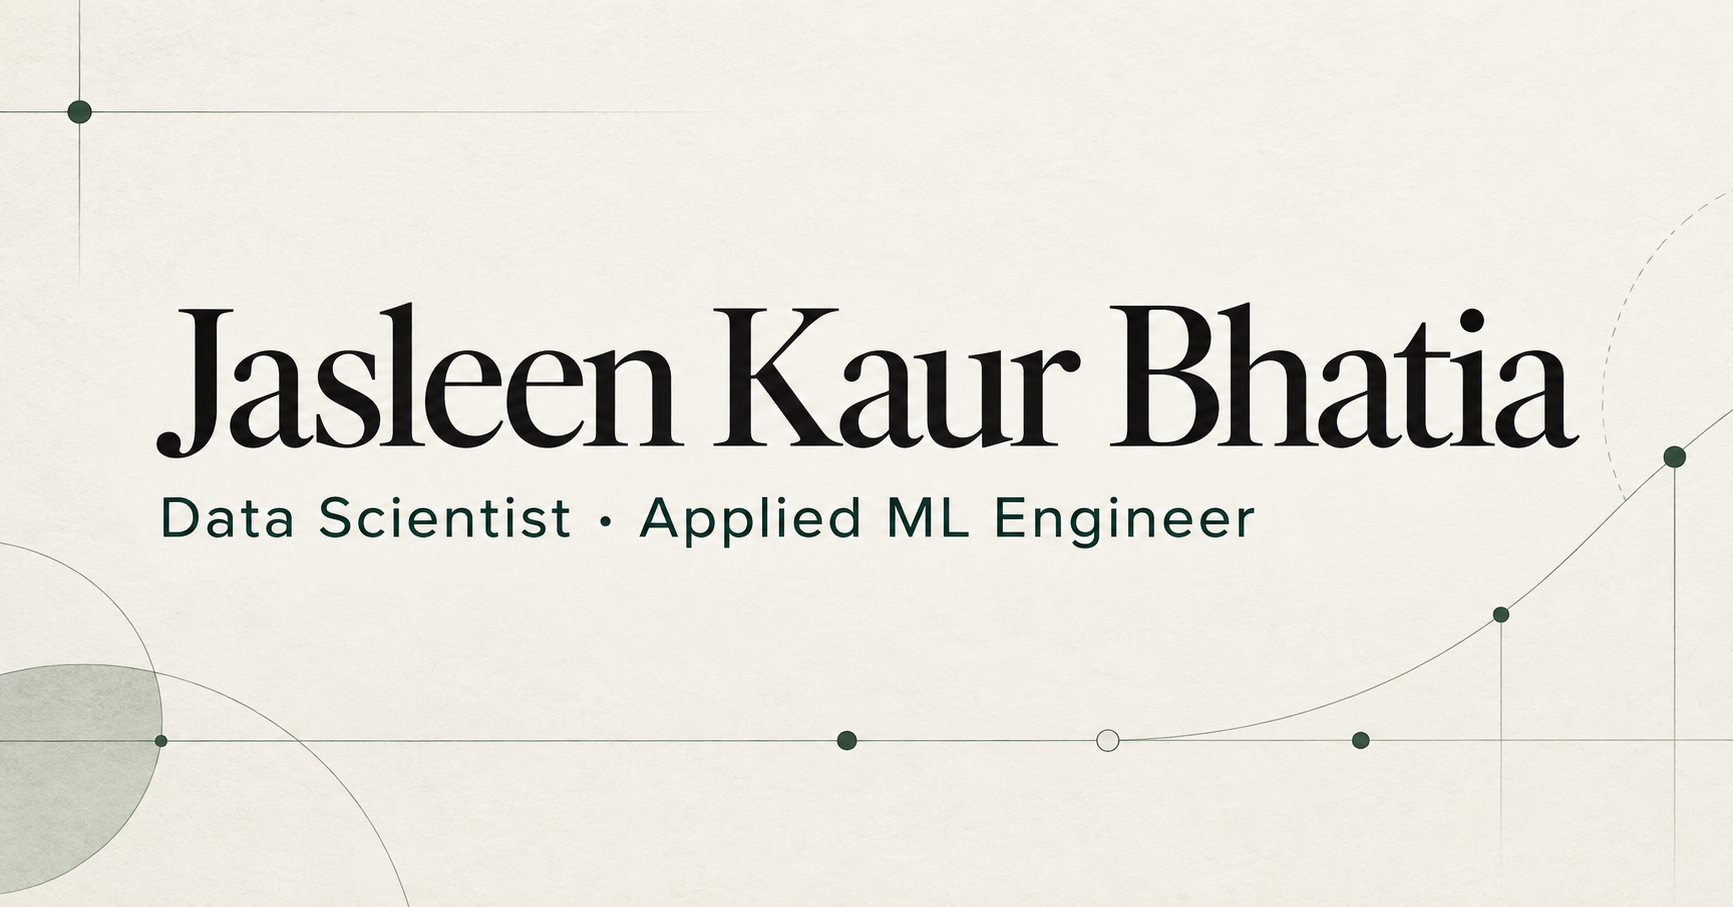
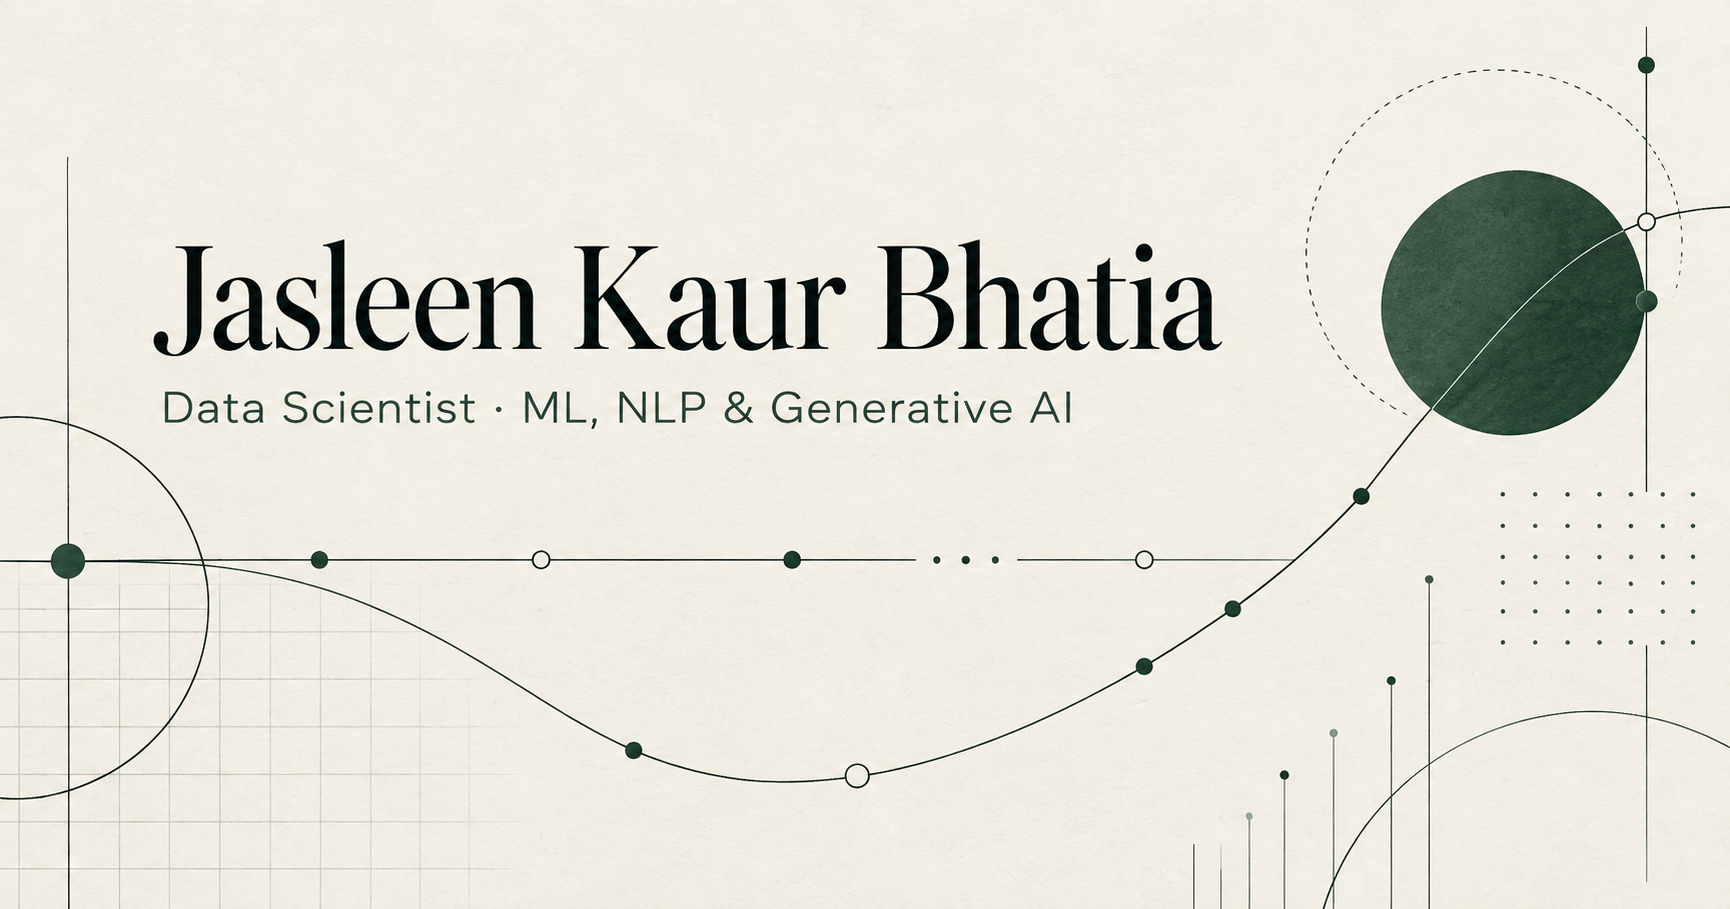
Refine career narrative and positioning

diff --git a/app/journey-motion.css b/app/journey-motion.css
@@ -1,0 +1,6 @@
+.hero{position:relative;overflow:hidden}.hero:before{content:"";position:absolute;inset:0 -20vw;z-index:-1;background:linear-gradient(90deg,transparent 49.9%,#d8ddd755 50%,transparent 50.1%),linear-gradient(0deg,transparent 49.9%,#d8ddd744 50%,transparent 50.1%);background-size:80px 80px;mask-image:linear-gradient(to bottom,black,transparent 88%)}.hero h1{animation:hero-in .9s cubic-bezier(.22,1,.36,1) both}.hero-grid{animation:hero-in .9s .12s cubic-bezier(.22,1,.36,1) both}.data-ribbon div{position:relative;overflow:hidden}.data-ribbon div:after{content:"";position:absolute;left:0;bottom:0;width:100%;height:2px;background:var(--accent);transform:translateX(-101%);animation:scan-line 5s infinite}.data-ribbon div:nth-child(2):after{animation-delay:1.25s}.data-ribbon div:nth-child(3):after{animation-delay:2.5s}.data-ribbon div:nth-child(4):after{animation-delay:3.75s}@keyframes hero-in{from{opacity:0;transform:translateY(35px)}to{opacity:1;transform:none}}@keyframes scan-line{0%,14%{transform:translateX(-101%)}25%,100%{transform:translateX(101%)}}
+.journey{max-width:1320px;background:linear-gradient(135deg,#f7f6f1 0%,#f7f6f1 55%,#eef1ec 100%)}.journey-story{--progress:0%;position:relative;display:grid;grid-template-columns:100px minmax(0,1fr) 150px;gap:45px;margin-top:80px}.journey-rail{position:relative;min-height:2520px}.rail-base,.rail-progress{position:absolute;left:50%;top:0;width:1px;height:100%;background:#c8d0ca}.rail-progress{height:var(--progress);background:var(--accent);transition:height .8s cubic-bezier(.22,1,.36,1)}.journey-rail button{position:absolute;left:50%;width:35px;height:35px;transform:translate(-50%,-50%);border:1px solid #a9b5ae;border-radius:50%;background:var(--paper);color:#93a098;font:600 8px var(--font-geist-mono);transition:all .45s;cursor:pointer}.journey-rail button.passed{background:var(--accent);color:#fff;border-color:var(--accent);box-shadow:0 0 0 7px #2f6f5e14}.journey-chapters article{position:relative;min-height:420px;padding:45px 0;display:grid;grid-template-columns:140px 1fr;gap:45px;opacity:.35;transform:translateY(25px);transition:opacity .7s,transform .7s}.journey-chapters article.is-active{opacity:1;transform:none}.chapter-meta{display:flex;flex-direction:column;gap:9px;color:#77827c;font:600 9px var(--font-geist-mono);text-transform:uppercase;letter-spacing:.08em}.chapter-copy{max-width:620px}.chapter-label{color:var(--accent)!important;font:650 10px var(--font-geist-mono)!important;letter-spacing:.1em}.chapter-copy h3{margin:16px 0 45px;font-size:clamp(38px,5vw,66px);font-weight:510;letter-spacing:-.055em;line-height:.94}.chapter-copy h4{margin:0 0 8px;font-size:19px}.chapter-copy>p:last-child{max-width:560px;color:var(--muted);font-size:14px;line-height:1.7}.chapter-role{margin:0 0 20px;color:#7b8780;font:500 10px var(--font-geist-mono)}.transition-card,.parallel-card{grid-column:2;max-width:620px;margin-top:20px;padding:22px;border:1px solid #cdd4ce;background:#eff2ed;display:grid;grid-template-columns:1fr auto;gap:12px}.transition-card>span,.parallel-card span{color:var(--accent);font:650 9px var(--font-geist-mono);letter-spacing:.08em}.transition-card strong,.parallel-card strong{grid-column:1/3;font-size:15px}.transition-card>b{font:650 9px var(--font-geist-mono)}.travel-line{grid-column:1/3;display:flex;align-items:center;gap:14px;margin-top:12px}.travel-line b{font:600 8px var(--font-geist-mono)}.travel-line i{position:relative;flex:1;height:1px;background:#9baaa2}.travel-line i:after{content:"→";position:absolute;right:-2px;top:-8px;color:var(--accent)}.move{background:#18221e;color:#f4f3ed}.move .travel-line i{background:#81958b}.parallel-card{grid-template-columns:auto 25px auto;justify-content:start;align-items:center;background:#f7f6f1}.parallel-card i{font-style:normal;color:#99a49e}.parallel-card strong{grid-column:1/4}.journey-now{position:sticky;top:120px;height:130px;align-self:start;border-top:1px solid var(--ink);padding-top:15px;display:flex;flex-direction:column}.journey-now span{font:600 8px var(--font-geist-mono);letter-spacing:.1em;color:#89958e}.journey-now strong{margin-top:18px;color:var(--accent);font:600 24px var(--font-geist-mono)}.journey-now small{margin-top:5px;color:var(--muted);font:500 9px var(--font-geist-mono)}
+.case-card{position:relative;overflow:hidden}.case-card:before{content:"";position:absolute;inset:0;background:linear-gradient(115deg,transparent 35%,#ffffff0d 50%,transparent 65%);transform:translateX(-120%);transition:transform .8s}.case-card:hover:before{transform:translateX(120%)}.research-rule span{animation:research-pulse 4s ease-in-out infinite;transform-origin:left}@keyframes research-pulse{0%,100%{transform:scaleX(.35)}50%{transform:scaleX(1)}}
+@media(max-width:900px){.journey-story{grid-template-columns:55px 1fr}.journey-now{display:none}.journey-rail{min-height:2520px}.journey-chapters article{grid-template-columns:1fr;gap:15px}.transition-card,.parallel-card{grid-column:1}.chapter-meta{flex-direction:row;justify-content:space-between}.chapter-copy h3{margin-bottom:30px}}
+@media(max-width:560px){.journey-story{grid-template-columns:35px 1fr;gap:18px;margin-top:55px}.journey-rail{min-height:2800px}.journey-rail button{width:25px;height:25px}.journey-chapters article{min-height:460px;padding:25px 0}.chapter-copy h3{font-size:39px}.transition-card,.parallel-card{padding:16px}.hero:before{background-size:48px 48px}}
+@media(prefers-reduced-motion:reduce){.hero h1,.hero-grid,.data-ribbon div:after,.research-rule span{animation:none}.journey-chapters article{opacity:1;transform:none}.rail-progress{transition:none}}

diff --git a/app/page.tsx b/app/page.tsx
@@ -1,4 +1,4 @@
-import { experience } from "@/data/experience";
+import { JourneyStory } from "@/components/sections/JourneyStory";
 import { personalProjects } from "@/data/personalProjects";
 import { professionalProjects } from "@/data/professionalProjects";
 import { profile } from "@/data/profile";
@@ -16,9 +16,9 @@ function SectionHeading({index,kicker,title,copy}:{index:string;kicker:string;ti
 function Header(){return <header className="site-header"><a className="monogram" href="#home" aria-label="Jasleen Kaur Bhatia, home">{profile.shortName}<span>·</span></a><nav aria-label="Primary navigation">{nav.map(([label,href])=><a key={href} href={href}>{label}</a>)}</nav><div className="header-actions"><a className="icon-link" href="#contact" aria-label="Contact">@</a><a className="resume-small" href={profile.resumeUrl} download>Resume ↓</a></div></header>}
 
 export default function Home(){return <main id="home"><Header/>
- <section className="hero section-shell" aria-labelledby="hero-title"><div className="eyebrow"><span className="signal"/> Data Scientist · Applied AI Systems</div><h1 id="hero-title">Jasleen Kaur<br/><span>Bhatia.</span></h1><div className="hero-grid"><div><p className="headline">{profile.headline}</p><p className="positioning">{profile.positioning}</p></div><div className="hero-aside"><p>{profile.supporting}</p><div className="hero-actions"><a className="button primary" href="#work">Explore my work ↘</a><a className="button text-button" href="#journey">Career journey ↓</a></div><div className="social-row"><a href="#contact">LinkedIn ↗</a><a href="#contact">GitHub ↗</a><a href="#contact">Email ↗</a></div></div></div><div className="data-ribbon" aria-hidden="true">{[["01","Experiment"],["02","Evaluate"],["03","Validate"],["04","Operationalize"]].map(([n,label])=><div key={n}><span>{n}</span><strong>{label}</strong></div>)}</div></section>
+ <section className="hero section-shell" aria-labelledby="hero-title"><div className="eyebrow"><span className="signal"/> Data Scientist · ML, NLP & Generative AI</div><h1 id="hero-title">Jasleen Kaur<br/><span>Bhatia.</span></h1><div className="hero-grid"><div><p className="headline">{profile.headline}</p><p className="positioning">{profile.positioning}</p></div><div className="hero-aside"><p>{profile.supporting}</p><div className="hero-actions"><a className="button primary" href="#work">Explore my work ↘</a><a className="button text-button" href="#journey">Career journey ↓</a></div><div className="social-row"><a href="#contact">LinkedIn ↗</a><a href="#contact">GitHub ↗</a><a href="#contact">Email ↗</a></div></div></div><div className="data-ribbon" aria-hidden="true">{[["01","Experiment"],["02","Evaluate"],["03","Validate"],["04","Operationalize"]].map(([n,label])=><div key={n}><span>{n}</span><strong>{label}</strong></div>)}</div></section>
 
- <section id="journey" className="journey section-shell"><SectionHeading index="01" kicker="Career Journey" title="Evolution through data." copy="From foundational data systems to the evaluation and operationalization of enterprise AI."/><div className="stage-track" aria-hidden="true">{["DATA","ANALYTICS","ML","NLP","GENAI"].map((stage,i)=><span key={stage} className={i===4?"active":""}>{stage}</span>)}</div><div className="timeline">{experience.map(item=><article className={`timeline-card ${item.education?"education":""}`} key={`${item.organization}-${item.period}`}><div className="node"><span/></div><p className="period">{item.period}</p><p className="stage">{item.stage}</p><h3>{item.organization}</h3><p className="role">{item.role}</p><p className="theme">{item.theme}</p><p className="highlight">{item.highlight}</p></article>)}</div></section>
+ <section id="journey" className="journey section-shell"><SectionHeading index="01" kicker="Career Journey" title="A career in chapters." copy="Six years building data foundations in India. A move to Chicago to formalize the craft. Then applied ML, predictive systems, NLP, and enterprise Generative AI."/><JourneyStory/></section>
 
  <section id="work" className="work section-shell"><SectionHeading index="02" kicker="Selected Professional Work" title="Systems, evaluated." copy="Selected public-safe case studies spanning enterprise GenAI, predictive modeling, NLP, and production readiness."/><div className="case-grid">{professionalProjects.map((project,i)=><a className={`case-card case-${i+1}`} href={`/work/${project.slug}`} key={project.slug}><div className="case-top"><span>0{i+1}</span><span>{project.category}</span></div><div><p className="org">{project.organization}{project.client&&<> · {project.client}</>}</p><h3>{project.title}</h3><p className="case-summary">{project.summary}</p></div><div className="metric-row">{project.metrics.slice(0,3).map(metric=><div key={metric.label}><strong>{metric.value}</strong><span>{metric.label}</span></div>)}</div><span className="case-link">View case study ↗</span></a>)}</div></section>
 

diff --git a/data/experience.ts b/data/experience.ts
@@ -1,11 +1,11 @@
-export type Experience = { period:string; organization:string; role:string; theme:string; stage:"DATA"|"ANALYTICS"|"ML"|"NLP"|"GENAI"; highlight:string; education?:boolean };
-export const experience: Experience[] = [
-  { period:"2014–2018", organization:"Tata Consultancy Services", role:"Data Analyst", theme:"Data Foundations", stage:"DATA", highlight:"Built and maintained 100+ SSIS/PowerShell ETL packages and automated migration and reconciliation workflows." },
-  { period:"2019–2021", organization:"Fiserv", role:"Data Architect Specialist", theme:"Data Engineering & Intelligent Automation", stage:"ANALYTICS", highlight:"Developed automated resume screening with predictive scoring and NLP-based processing across multiple document formats." },
-  { period:"2021–2023", organization:"Illinois Institute of Technology", role:"Master’s in Data Science", theme:"Formalizing Data Science", stage:"ML", highlight:"Deepened the statistical, computational, and applied foundations behind a career in data science.", education:true },
-  { period:"2022", organization:"Boston Consulting Group", role:"Data Science Intern", theme:"Applied Machine Learning", stage:"ML", highlight:"Applied clustering and regression to retail shelf-space optimization." },
-  // TODO: Verify the one-month overlap (Aug 2023–Aug 2024 / Jul 2024–Present) before production publication.
-  { period:"Aug 2023–Aug 2024", organization:"Infinite Computer Solutions", role:"Business Process Analyst (Data Scientist)", theme:"Predictive ML & NLP", stage:"NLP", highlight:"Developed fraud-detection and risk-scoring systems with transactional data, XGBoost, BERT, and GPT-based approaches." },
-  // TODO: Verify the one-month overlap (Aug 2023–Aug 2024 / Jul 2024–Present) before production publication.
-  { period:"Jul 2024–Present", organization:"Fractal Analytics", role:"Data Scientist", theme:"Enterprise ML & Generative AI", stage:"GENAI", highlight:"Builds and evaluates enterprise LLM systems, lead-detection solutions, model-validation frameworks, and production-readiness workflows." },
+export type Experience={period:string;organization:string;role:string;theme:string;stage:"DATA"|"ANALYTICS"|"ML"|"NLP"|"GENAI";highlight:string;location:string;chapter:string;education?:boolean};
+export const experience:Experience[]=[
+ {period:"2014–2018",organization:"Tata Consultancy Services",role:"Data Analyst",theme:"Data Foundations",stage:"DATA",location:"India",chapter:"Built the foundation",highlight:"Built and maintained 100+ SSIS/PowerShell ETL packages and automated migration and reconciliation workflows."},
+ {period:"2019–2021",organization:"Fiserv",role:"Data Architect Specialist",theme:"Data Engineering & Intelligent Automation",stage:"ANALYTICS",location:"India",chapter:"Moved from pipelines to intelligence",highlight:"Developed automated resume screening with predictive scoring and NLP-based processing across multiple document formats."},
+ {period:"2021–2023",organization:"Illinois Institute of Technology",role:"Master’s in Data Science",theme:"Formalizing Data Science",stage:"ML",location:"Chicago, USA",chapter:"Crossed continents to go deeper",highlight:"Moved from India to Chicago to formalize years of data experience through advanced study in data science.",education:true},
+ {period:"2022",organization:"Boston Consulting Group",role:"Data Science Intern",theme:"Applied Machine Learning",stage:"ML",location:"Chicago, USA",chapter:"Applied the learning in parallel",highlight:"While completing the master’s, applied clustering and regression to retail shelf-space optimization."},
+ // TODO: Verify the one-month overlap (Aug 2023–Aug 2024 / Jul 2024–Present) before production publication.
+ {period:"Aug 2023–Aug 2024",organization:"Infinite Computer Solutions",role:"Business Process Analyst (Data Scientist)",theme:"Predictive ML & NLP",stage:"NLP",location:"USA",chapter:"Stepped into full-time data science",highlight:"Developed fraud-detection and risk-scoring systems with transactional data, XGBoost, BERT, and GPT-based approaches."},
+ // TODO: Verify the one-month overlap (Aug 2023–Aug 2024 / Jul 2024–Present) before production publication.
+ {period:"Jul 2024–Present",organization:"Fractal Analytics",role:"Data Scientist",theme:"Enterprise ML & Generative AI",stage:"GENAI",location:"USA",chapter:"Now: enterprise AI at scale",highlight:"Builds and evaluates enterprise LLM systems, lead-detection solutions, model-validation frameworks, and production-readiness workflows."},
 ];

diff --git a/components/sections/JourneyStory.tsx b/components/sections/JourneyStory.tsx
@@ -1,0 +1,18 @@
+"use client";
+import {useEffect,useRef,useState} from "react";
+import {experience} from "@/data/experience";
+
+export function JourneyStory(){
+ const [active,setActive]=useState(0);const root=useRef<HTMLDivElement>(null);
+ useEffect(()=>{const nodes=root.current?.querySelectorAll("[data-step]");if(!nodes)return;const observer=new IntersectionObserver(entries=>entries.forEach(e=>{if(e.isIntersecting)setActive(Number((e.target as HTMLElement).dataset.step))}),{rootMargin:"-35% 0px -45%",threshold:.1});nodes.forEach(n=>observer.observe(n));return()=>observer.disconnect()},[]);
+ return <div className="journey-story" ref={root} style={{"--progress":`${(active/(experience.length-1))*100}%`} as React.CSSProperties}>
+  <div className="journey-rail" aria-hidden="true"><div className="rail-base"/><div className="rail-progress"/>{experience.map((item,i)=><button key={item.period} className={i<=active?"passed":""} style={{top:`${(i/(experience.length-1))*100}%`}} onClick={()=>document.querySelector(`[data-step='${i}']`)?.scrollIntoView({behavior:"smooth",block:"center"})} tabIndex={-1}><span>{String(i+1).padStart(2,"0")}</span></button>)}</div>
+  <div className="journey-chapters">{experience.map((item,i)=><article data-step={i} key={`${item.organization}-${item.period}`} className={i===active?"is-active":""}>
+   <div className="chapter-meta"><span>{item.period}</span><span>{item.location}</span></div><div className="chapter-copy"><p className="chapter-label">CHAPTER {String(i+1).padStart(2,"0")} · {item.stage}</p><h3>{item.chapter}</h3><h4>{item.organization}</h4><p className="chapter-role">{item.role} · {item.theme}</p><p>{item.highlight}</p></div>
+   {i===1&&<div className="transition-card"><span>2014–2021</span><strong>6+ years building with data in India</strong><b>INDIA</b></div>}
+   {i===2&&<div className="transition-card move"><span>THE PIVOT</span><strong>Professional experience → Master’s in Data Science</strong><div className="travel-line"><b>INDIA</b><i/><b>CHICAGO</b></div></div>}
+   {i===3&&<div className="parallel-card"><span>MASTER’S</span><i>+</i><span>INTERNSHIP</span><strong>Learning and applying, in parallel</strong></div>}
+  </article>)}</div>
+  <aside className="journey-now"><span>NOW TRACKING</span><strong>{experience[active].stage}</strong><small>{experience[active].period}</small></aside>
+ </div>
+}

diff --git a/app/layout.tsx b/app/layout.tsx
@@ -1,14 +1,15 @@
 import type { Metadata } from "next";
 import { Geist,Geist_Mono } from "next/font/google";
 import "./globals.css";
+import "./journey-motion.css";
 const geistSans=Geist({variable:"--font-geist-sans",subsets:["latin"]}); const geistMono=Geist_Mono({variable:"--font-geist-mono",subsets:["latin"]});
 const siteUrl=process.env.NEXT_PUBLIC_SITE_URL??"https://jasleen-kaur-bhatia.perky-dell-4939.chatgpt.site";
 export const metadata:Metadata={
  metadataBase:new URL(siteUrl),
- title:"Jasleen Kaur Bhatia | Data Scientist & Applied ML Engineer",
+ title:"Jasleen Kaur Bhatia | Data Scientist",
  description:"Data Scientist specializing in Machine Learning, NLP, Generative AI, LLM evaluation, experimentation, and enterprise AI systems.",
  alternates:{canonical:"/"},
- openGraph:{title:"Jasleen Kaur Bhatia | Data Scientist & Applied ML Engineer",description:"Machine Learning, NLP, Generative AI, evaluation, and enterprise AI systems.",type:"website",url:"/",images:[{url:"/og.png",width:1792,height:1024,alt:"Jasleen Kaur Bhatia — Data Scientist and Applied ML Engineer"}]},
- twitter:{card:"summary_large_image",title:"Jasleen Kaur Bhatia | Data Scientist & Applied ML Engineer",description:"Machine Learning, NLP, Generative AI, evaluation, and enterprise AI systems.",images:["/og.png"]},
+ openGraph:{title:"Jasleen Kaur Bhatia | Data Scientist",description:"Machine Learning, NLP, Generative AI, evaluation, and enterprise AI systems.",type:"website",url:"/",images:[{url:"/og.png",width:1792,height:1024,alt:"Jasleen Kaur Bhatia — Data Scientist"}]},
+ twitter:{card:"summary_large_image",title:"Jasleen Kaur Bhatia | Data Scientist",description:"Machine Learning, NLP, Generative AI, evaluation, and enterprise AI systems.",images:["/og.png"]},
 };
 export default function RootLayout({children}:Readonly<{children:React.ReactNode}>){return <html lang="en"><body className={`${geistSans.variable} ${geistMono.variable}`}>{children}</body></html>}

diff --git a/data/profile.ts b/data/profile.ts
@@ -1,7 +1,7 @@
 export const profile = {
   name: "Jasleen Kaur Bhatia",
   shortName: "JKB",
-  headline: "Data Scientist | Applied ML Engineer",
+  headline: "Data Scientist | Machine Learning & Generative AI",
   positioning: "Building Machine Learning and Generative AI systems from experimentation and evaluation through scalable, production-ready solutions.",
   supporting: "Nearly a decade of experience working with data across analytics, machine learning, NLP, predictive modeling, and enterprise Generative AI.",
   about: [
